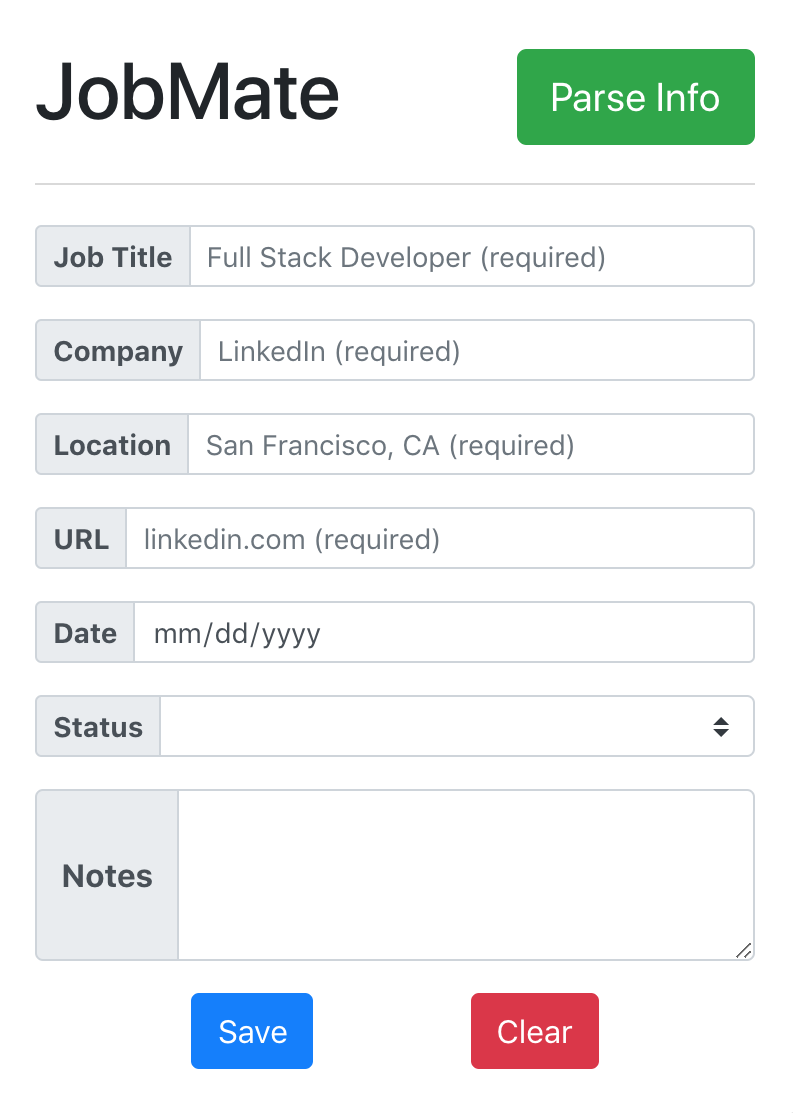
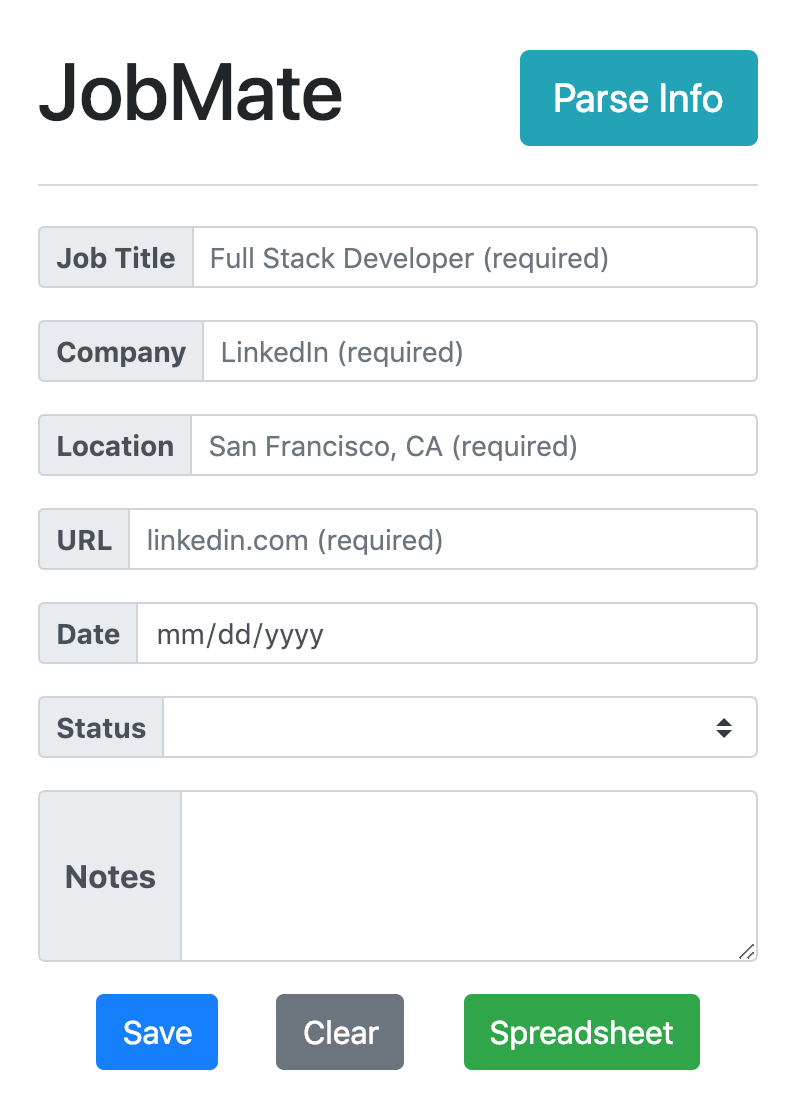
updated to v1.4

Changed region(s): [[0.0303, 0.1838, 0.9382, 0.9802], [0.6356, 0.0306, 0.9685, 0.1532], [0.0605, 0.0613, 0.4237, 0.1225]]

diff --git a/contentScript.js b/contentScript.js
@@ -8,9 +8,11 @@ chrome.runtime.onMessage.addListener(
 
       if (message.url.includes('linkedin.com')) {
 
-        jobTitle = $("h1").text();
-        company = $('a.jobs-details-top-card__company-url').text().replace(/\n/g, '');
-        jobLocation = $('span.jobs-details-top-card__bullet').first().text().replace(/\n/g, '');
+        jobTitle = $("h1.jobs-top-card__job-title").text();
+        company = $("a.jobs-top-card__company-url")
+          .text()
+          .replace(/\n/g, '');
+        jobLocation = $('span.jobs-top-card__bullet').first().text().replace(/\n/g, '');
 
       } else if (message.url.includes('greenhouse.io')) {
 
@@ -40,7 +42,7 @@ chrome.runtime.onMessage.addListener(
       } else if (message.url.includes('stackoverflow.com')) {
 
         jobTitle = $("a.fc-black-900").text();
-        company = $("a.fc-black-700").text();
+        company = $("a.fc-black-800").text();
         jobLocation = $("span.fc-black-500").first().text().replace(/[\n|]/g, '');
 
       } else if (message.url.includes('indeed.com')) {
@@ -51,15 +53,21 @@ chrome.runtime.onMessage.addListener(
 
       } else if (message.url.includes('monster.com')) {
 
-        jobTitle = $('h1.title').text().split('at')[0];
-        company = $('h1.title').text().split('at')[1];
+        const header = $("h1.title").text();
+        if (header.includes(' at ')) {
+          jobTitle = header.split('at')[0];
+          company = header.split('at')[1];
+        } else if (header.includes(' from ')) {
+          jobTitle = header.split('from')[0];
+          company = header.split('from')[1];
+        }
         jobLocation = $('h2.subtitle').text();
 
       } else if (message.url.includes('ziprecruiter.com')) {
 
         jobTitle = $('h1.job_title').text();
-        company = $('.job_location_name').text();
-        jobLocation = $('.job_location_city').text();
+        company = $('a.job_details_link').text();
+        jobLocation = $("a.location_text span span").text();
 
       } else if (message.url.includes('wayup.com')) {
 
@@ -67,15 +75,37 @@ chrome.runtime.onMessage.addListener(
         company = $('.ListingApplication__HeaderCompanyName-lkfLno').text();
         jobLocation = $('.ListingApplication__HeaderListingLocation-frbGKz').text();
 
+      } else if (message.url.includes('hire.withgoogle.com')) {
+
+        jobTitle = $("h1.bb-jobs-posting__job-title").text();
+        company = $("img.ptor-job-posting-company-logo").attr("alt");
+        jobLocation = $("li.ptor-job-view-location").text();
+
+      } else if (message.url.includes('jobvite.com')) {
+
+        jobTitle = $("h2.jv-header").text();
+        company = $(".jv-logo a img").attr("alt");
+        jobLocation = $("p.jv-job-detail-meta")
+          .text()
+          .replace(/[\n]/g, "");
+
+      } else if (message.url.includes('workable.com')) {
+
+        jobTitle = $(".section--header h1").text();
+        company = $("title").text().split('-')[0];
+        jobLocation = $(".section--header h1")
+          .next()
+          .text();
+
       } else {
         jobTitle = '';
         company = '';
         jobLocation = '';
       }
 
-      response.jobTitle = jobTitle.trim();
-      response.company = company.trim();
-      response.jobLocation = jobLocation.trim();
+      response.jobTitle = jobTitle ? jobTitle.trim() : '';
+      response.company = company ? company.trim() : '';
+      response.jobLocation = jobLocation ? jobLocation.trim() : '';
       response.url = url;
 
       callback(response);

diff --git a/popup.js b/popup.js
@@ -1,16 +1,17 @@
-var Airtable = require('airtable');
+const Airtable = require('airtable');
 
-let parseInfo = document.getElementById('parseInfo');
-let saveBtn = document.getElementById('saveBtn');
-let clearBtn = document.getElementById('clearBtn');
+const parseInfo = document.getElementById('parseInfo');
+const saveBtn = document.getElementById('saveBtn');
+const clearBtn = document.getElementById('clearBtn');
+const openBtn = document.getElementById('openBtn');
 
-let jobTitle = document.getElementById('jobTitle');
-let company = document.getElementById('company');
-let jobLocation = document.getElementById('jobLocation');
-let url = document.getElementById('url');
-let saveDate = document.getElementById('saveDate');
-let status = document.getElementById('status');
-let notes = document.getElementById('notes');
+const jobTitle = document.getElementById('jobTitle');
+const company = document.getElementById('company');
+const jobLocation = document.getElementById('jobLocation');
+const url = document.getElementById('url');
+const saveDate = document.getElementById('saveDate');
+const status = document.getElementById('status');
+const notes = document.getElementById('notes');
 
 parseInfo.onclick = function(e) {
   e.preventDefault();
@@ -25,6 +26,17 @@ parseInfo.onclick = function(e) {
         status.value = 'Submitted';
       }
     })
+  })
+}
+
+openBtn.onclick = function(e) {
+  e.preventDefault();
+  chrome.storage.sync.get(["airtableBaseURL"], function (data) {
+    if (!data.airtableBaseURL) {
+      return alert('Please set up the Base URL to access your Airtable')
+    } else {
+      window.open(data.airtableBaseURL, '_blank')
+    }
   })
 }
 
@@ -44,14 +56,12 @@ saveBtn.onclick = function(e) {
   if (!jobTitle.value || !company.value || !jobLocation.value || !url) {
     return alert('Please enter information for all required fields')
   }
-  let airtableTableName;
-  let base;
   chrome.storage.sync.get(["airtableApiKey", "airtableBaseId", "airtableTableName"], function(data) {
     if (!data.airtableApiKey || !data.airtableBaseId || !data.airtableTableName) {
       return alert('Please set up your Airtable API key, base ID, and table name')
     } else {
-      airtableTableName = data.airtableTableName;
-      base = new Airtable({ apiKey: data.airtableApiKey }).base(data.airtableBaseId);
+      const airtableTableName = data.airtableTableName;
+      const base = new Airtable({ apiKey: data.airtableApiKey }).base(data.airtableBaseId);
       const obj = {
         "Company": company.value,
         "Position": jobTitle.value,

diff --git a/options.js b/options.js
@@ -1,19 +1,22 @@
-let apiKey = document.getElementById('api-key');
-let baseId = document.getElementById('base-id');
-let tableName = document.getElementById('table-name');
-let saveBtn = document.getElementById('save');
+const apiKey = document.getElementById('api-key');
+const baseId = document.getElementById('base-id');
+const tableName = document.getElementById('table-name');
+const baseURL = document.getElementById('base-url');
+const saveBtn = document.getElementById('save');
 
-chrome.storage.sync.get(["airtableApiKey", "airtableBaseId", "airtableTableName"], function(data) {
+chrome.storage.sync.get(["airtableApiKey", "airtableBaseId", "airtableTableName", "airtableBaseURL"], function(data) {
   apiKey.value = data.airtableApiKey ? data.airtableApiKey : '';
   baseId.value = data.airtableBaseId ? data.airtableBaseId : '';
   tableName.value = data.airtableTableName ? data.airtableTableName : '';
+  baseURL.value = data.airtableBaseURL ? data.airtableBaseURL : '';
 })
 
 saveBtn.onclick = function(element) {
   const obj = {
     airtableApiKey: apiKey.value,
     airtableBaseId: baseId.value,
-    airtableTableName: tableName.value
+    airtableTableName: tableName.value,
+    airtableBaseURL: baseURL.value
   }
   chrome.storage.sync.set(obj, function() {
     $('h4').after('<div id="message">Successfully saved!</div>')

diff --git a/options.html b/options.html
@@ -8,16 +8,20 @@
       <h4 style="text-align: center">Airtable Settings</h4>
 
       <div class="input-group">
-        <span class="input-group-addon" id="sizing-addon2">API Key</span>
+        <span class="input-group-addon">API Key</span>
         <input type="text" id="api-key" class="form-control" aria-describedby="sizing-addon2">
       </div>
       <div class="input-group">
-        <span class="input-group-addon" id="sizing-addon2">Base ID</span>
+        <span class="input-group-addon">Base ID</span>
         <input type="text" id="base-id" class="form-control" aria-describedby="sizing-addon2">
       </div>
       <div class="input-group">
-        <span class="input-group-addon" id="sizing-addon2">Table Name</span>
+        <span class="input-group-addon">Table Name</span>
         <input type="text" id="table-name" class="form-control" aria-describedby="sizing-addon2">
+      </div>
+      <div class="input-group">
+        <span class="input-group-addon">Base URL</span>
+        <input type="text" id="base-url" class="form-control" aria-describedby="sizing-addon2">
       </div>
 
       <div class="save-btn input-group"><button id="save" class="btn btn-primary">Save</button></div>

diff --git a/popup.html b/popup.html
@@ -7,7 +7,7 @@
     <body>
       <div class="header">
         <h1>JobMate</h1>
-        <button type="button" id="parseInfo" class="btn btn-success btn-lg">Parse Info</button>
+        <button type="button" id="parseInfo" class="btn btn-info btn-lg">Parse Info</button>
       </div>
       <form>
         <div class="input-group input-group-sm mb-3">
@@ -60,7 +60,8 @@
         </div>
         <div class="buttons">
           <button type="button" id="saveBtn" class="btn btn-primary">Save</button>
-          <button type="button" id="clearBtn" class="btn btn-danger">Clear</button>
+          <button type="button" id="clearBtn" class="btn btn-secondary">Clear</button>
+          <button type="button" id="openBtn" class="btn btn-success">Spreadsheet</button>
         </div>
       </form>
       <script src="assets/moment.js"></script>

diff --git a/README.md b/README.md
@@ -1,18 +1,22 @@
-# JobMate (version 1.3)
+# JobMate (version 1.4)
 A [Chrome extension](https://chrome.google.com/webstore/detail/jobmate/dhehfnkpbknogddkkiabopofhkcimcle) to parse job details on common job boards and store the information on Airtable
 
 <img src="assets/JobMateExample.png">
 
 ## Currently supported job boards:
-- linkedin.com
 - glassdoor.com
 - lever.co
 - greenhouse.io
 - angel.co
-- stackoverflow.com
 - indeed.com
-- monster.com
-- ziprecruiter.com
+- linkedin.com (updated in v1.4)
+- stackoverflow.com (updated in v1.4)
+- monster.com (updated in v1.4)
+- ziprecruiter.com (updated in v1.4)
+- hire.withgoogle.com (added in v1.4)
+- jobvite.com (added in v1.4)
+- workable.com (added in v1.4)
+
 
 ## Setup
 1. You need to have [Airtable](https://airtable.com) account (free to register)
@@ -27,16 +31,20 @@ A [Chrome extension](https://chrome.google.com/webstore/detail/jobmate/dhehfnkpb
    - **Applied On** (date)
    - **Notes** (long text)
    - **Status** (single select, options: Submitted, Working, Rejected, Pending)
-   
-4. Go [here](https://airtable.com/api) to select the base you just created:
+
+4. (Optional) Obtain the direct URL to access the base just created in step 2 from your browser's address bar
+
+5. Go [here](https://airtable.com/api) to select the base you just created:
    - Obtain the Base ID from the address bar (ht<span>tps://</span>airtable.com/**__BASEID__**/api/docs)
    - Obtain Table Name
 
-5. Install JobMate chrome extension [here](https://chrome.google.com/webstore/detail/jobmate/dhehfnkpbknogddkkiabopofhkcimcle)
-6. Right click on the newly added JobMate icon on chrome toolbar and select **Options**
-   - You should see a popup window to fill out your Airtable API Key, Base ID, and Table Name
-   - **JobMate chrome extension will not work if these 3 parameters are missing**
-   - Click save when you are done, this will allow JobMate to store information on Airtable that you can refer to later.
+5. Go back to
+
+6. Install JobMate chrome extension [here](https://chrome.google.com/webstore/detail/jobmate/dhehfnkpbknogddkkiabopofhkcimcle)
+7. Right click on the newly added JobMate icon on chrome toolbar and select **Options**
+   - You should see a popup window to fill out your Airtable API Key, Base ID, and Table Name, and Base URL
+   - **JobMate chrome extension will not work properly if the first 3 parameters are missing**. The 4th parameter (Base URL) is for your easy access, the green SPREADSHEET button located in extension popup will not work if this parameter is missing)
+   - Click SAVE when you are done, this will allow JobMate to store information on Airtable that you can refer to later.
 
    ![JobMate settings](assets/JobMateSettings.png)
 
